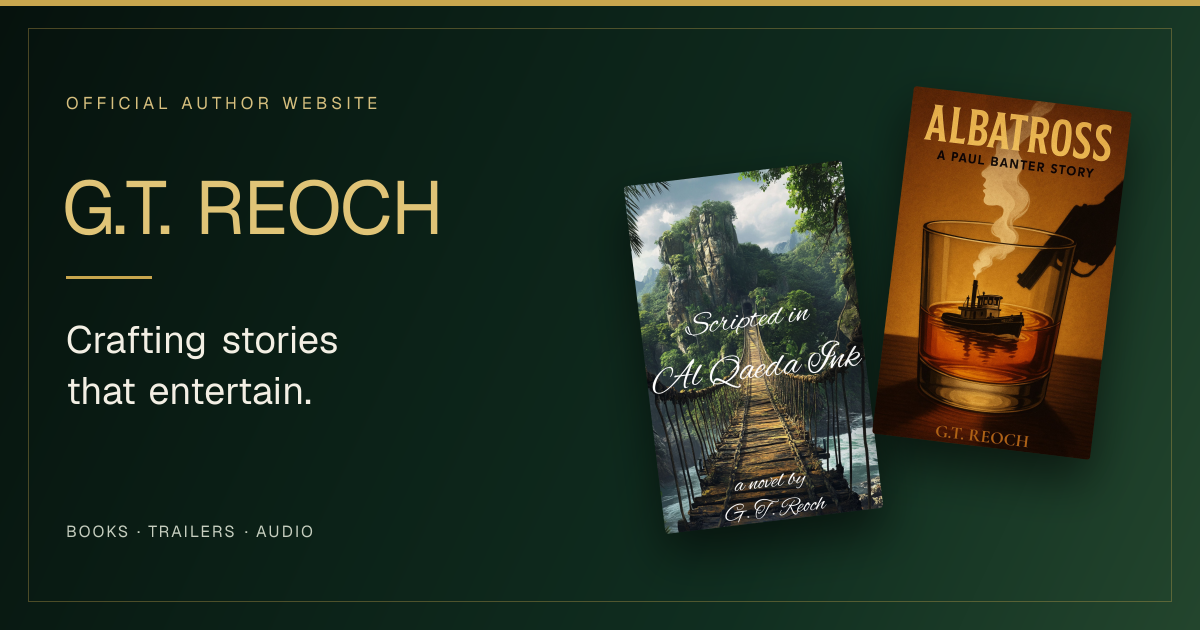
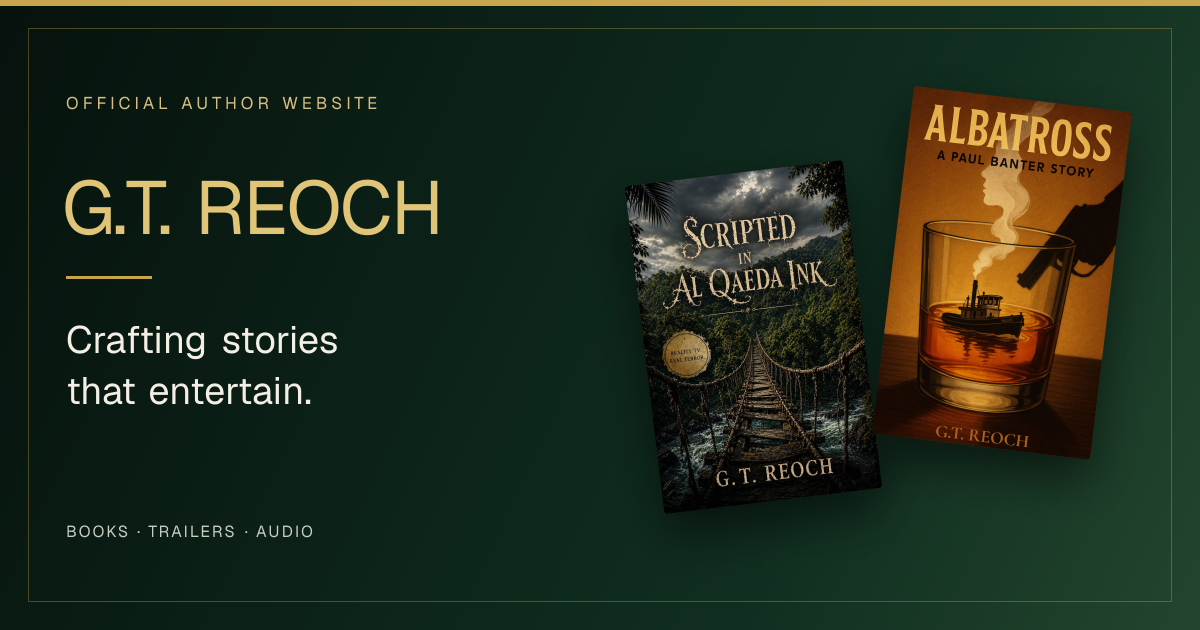
Use current Amazon cover for Scripted in Al Qaeda Ink

Changed region(s): [[0.5242, 0.2413, 0.74, 0.8444]]

diff --git a/index.html b/index.html
@@ -137,7 +137,7 @@
             <div class="published-grid">
                 <div class="published-book">
                     <div class="book-cover">
-                        <img src="assets/Scripted in Al Qaeda Ink Final Cover Art 4_16.jpg" alt="Scripted in Al Qaeda Ink by G.T. Reoch">
+                        <img src="assets/scripted-in-al-qaeda-ink-cover.jpg" alt="Scripted in Al Qaeda Ink by G.T. Reoch">
                         <div class="cover-overlay">
                             <a href="https://www.amazon.com/Scripted-Qaeda-Ink-Gerald-Reoch-ebook/dp/B0F4G1J2Q8" 
                                target="_blank" 
@@ -192,7 +192,7 @@
             <div class="audio-sample-card">
                 <div class="audio-sample-header">
                     <div class="book-reference-audio">
-                        <img src="assets/Scripted in Al Qaeda Ink Final Cover Art 4_16.jpg" alt="Scripted in Al Qaeda Ink" class="audio-book-cover">
+                        <img src="assets/scripted-in-al-qaeda-ink-cover.jpg" alt="Scripted in Al Qaeda Ink" class="audio-book-cover">
                     </div>
                     <div class="audio-sample-info">
                         <h3>Scripted in Al Qaeda Ink</h3>
@@ -299,7 +299,7 @@
                 <div class="interview-card">
                     <div class="interview-header">
                         <div class="book-reference">
-                            <img src="assets/Scripted in Al Qaeda Ink Final Cover Art 4_16.jpg" alt="Scripted in Al Qaeda Ink" class="interview-book-cover">
+                            <img src="assets/scripted-in-al-qaeda-ink-cover.jpg" alt="Scripted in Al Qaeda Ink" class="interview-book-cover">
                         </div>
                         <div class="interview-info">
                             <h3>Author Interview: Scripted in Al Qaeda Ink</h3>

diff --git a/behind-the-scenes.html b/behind-the-scenes.html
@@ -127,7 +127,7 @@
         <div class="container">
             <div class="interview-layout">
                 <div class="book-info">
-                    <img src="assets/Scripted in Al Qaeda Ink Final Cover Art 4_16.jpg" alt="Scripted in Al Qaeda Ink by G.T. Reoch" class="featured-book-cover">
+                    <img src="assets/scripted-in-al-qaeda-ink-cover.jpg" alt="Scripted in Al Qaeda Ink by G.T. Reoch" class="featured-book-cover">
                     <div class="book-details">
                         <h3>Scripted in Al Qaeda Ink</h3>
                         <p class="book-meta">Political Thriller • Debut Novel</p>

diff --git a/docs/VERCEL.md b/docs/VERCEL.md
@@ -83,3 +83,8 @@ preview PNG and page metadata are publicly accessible on the new domain. Keep
 
 Official references: [Vercel project configuration](https://vercel.com/docs/project-configuration/vercel-json)
 and [GitHub CodeQL workflow configuration](https://docs.github.com/en/code-security/reference/code-scanning/workflow-configuration-options).
+
+The current `scripted-in-al-qaeda-ink-cover.jpg` is the cover displayed on the
+[Amazon Kindle listing](https://www.amazon.com/dp/B0F4G1J2Q8), verified September 28, 2026.
+The original cover remains available in Git history. The site and sharing card
+use the current cover consistently.

diff --git a/README-GT-Reoch.md b/README-GT-Reoch.md
@@ -52,7 +52,7 @@ GTReoch-Author-Website/
 └── assets/
     ├── Scripted-in-Al-Qaeda-Ink.mp4              # Book trailer video
     ├── Albatross.mp4                             # Albatross book trailer
-    ├── Scripted in Al Qaeda Ink Final Cover Art 4_16.jpg  # Book cover
+    ├── scripted-in-al-qaeda-ink-cover.jpg  # Book cover
     ├── By G.T. Reoch.jpg                         # Albatross book cover
     ├── Seeds of Darkness Ch2.m4a                # Chapter 2 audio sample
     ├── image.png                                 # Author photo
